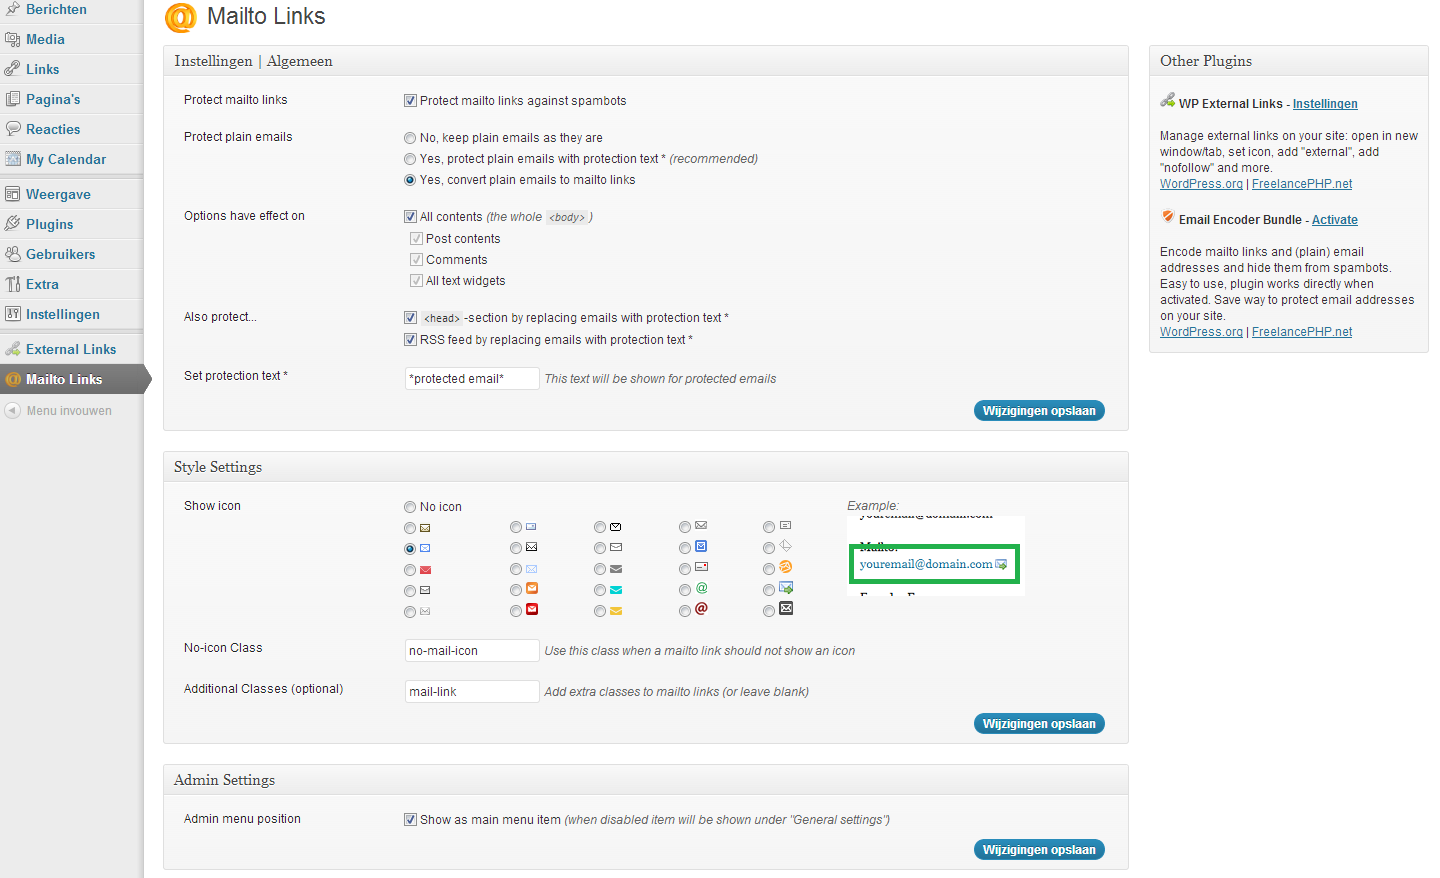
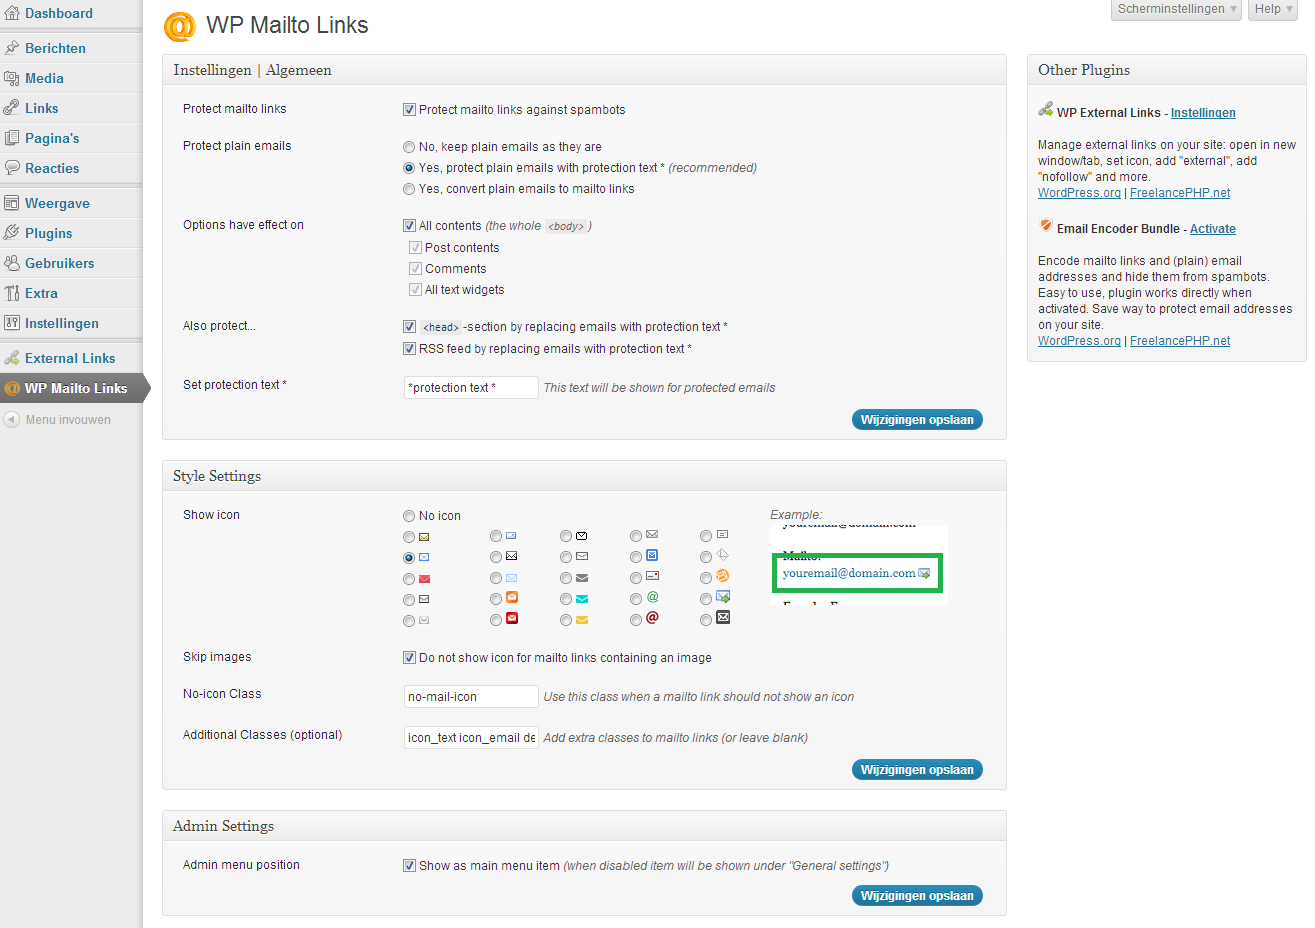
version 1.2.0
git-svn-id: https://plugins.svn.wordpress.org/wp-mailto-links/trunk@711937 b8457f37-d9ea-0310-8a92-e5e31aec5664

diff --git a/includes/class-admin-wp-mailto-links.php b/includes/class-admin-wp-mailto-links.php
@@ -12,7 +12,7 @@ class Admin_WP_Mailto_Links {
 	 * Current version
 	 * @var string
 	 */
-	protected $version = '1.1.0';
+	protected $version = '1.2.0';
 
 	/**
 	 * Used as prefix for options entry and could be used as text domain (for translations)
@@ -41,6 +41,7 @@ class Admin_WP_Mailto_Links {
 		'filter_head' => 1,
 		'protection_text' => '*protected email*',
 		'icon' => 0,
+		'image_no_icon' => 0,
 		'no_icon_class' => 'no-mail-icon',
 		'class_name' => 'mail-link',
 		'widget_logic_filter' => 0,
@@ -263,9 +264,6 @@ class Admin_WP_Mailto_Links {
 
 		if ($key === 'general_settings') {
 ?>
-			<?php if (is_plugin_active('email-encoder-bundle/email-encoder-bundle.php')): ?>
-				<p class="description"><?php _e('Warning: "Email Encoder Bundle"-plugin is also activated, which could cause conflicts.', $this->domain) ?></p>
-			<?php endif; ?>
 			<fieldset class="options">
 				<table class="form-table">
 				<tr>
@@ -348,6 +346,12 @@ class Admin_WP_Mailto_Links {
 					</td>
 				</tr>
 				<tr>
+					<th><?php _e('Skip images', $this->domain) ?></th>
+					<td><label><input type="checkbox" name="<?php echo $this->options_name ?>[image_no_icon]" value="1" <?php checked('1', (int) $options['image_no_icon']); ?> />
+						<span><?php _e('Do not show icon for mailto links containing an image', $this->domain) ?></span></label>
+					</td>
+				</tr>
+				<tr>
 					<th><?php _e('No-icon Class', $this->domain) ?></th>
 					<td><label><input type="text" id="<?php echo $this->options_name ?>[no_icon_class]" name="<?php echo $this->options_name ?>[no_icon_class]" value="<?php echo $options['no_icon_class']; ?>" />
 						<span class="description"><?php _e('Use this class when a mailto link should not show an icon', $this->domain) ?></span></label>
@@ -384,7 +388,7 @@ class Admin_WP_Mailto_Links {
 ?>
 			<h4><img src="<?php echo plugins_url('images/icon-wp-external-links.png', WP_MAILTO_LINKS_FILE) ?>" width="16" height="16" /> <?php _e('WP External Links', $this->domain) ?> -
 				<?php if (is_plugin_active('wp-external-links/wp-external-links.php')): ?>
-					<a href="<?php echo get_bloginfo('url') ?>/wp-admin/options-general.php?page=wp-external-links/wp-external-links.php"><?php _e('Settings') ?></a>
+					<a href="<?php echo get_bloginfo('url') ?>/wp-admin/admin.php?page=wp_external_links"><?php _e('Settings') ?></a>
 				<?php elseif( file_exists( WP_PLUGIN_DIR . '/wp-external-links/wp-external-links.php')): ?>
 					<a href="<?php echo get_bloginfo('url') ?>/wp-admin/plugins.php?plugin_status=inactive"><?php _e('Activate', $this->domain) ?></a>
 				<?php else: ?>
@@ -397,7 +401,7 @@ class Admin_WP_Mailto_Links {
 
 			<h4><img src="<?php echo plugins_url('images/icon-email-encoder-bundle.png', WP_MAILTO_LINKS_FILE) ?>" width="16" height="16" /> <?php _e('Email Encoder Bundle', $this->domain) ?> -
 				<?php if (is_plugin_active('email-encoder-bundle/email-encoder-bundle.php')): ?>
-					<a href="<?php echo get_bloginfo('url') ?>/wp-admin/options-general.php?page=email-encoder-bundle/email-encoder-bundle.php"><?php _e('Settings') ?></a>
+					<a href="<?php echo get_bloginfo('url') ?>/wp-admin/admin.php?page=email-encoder-bundle/email-encoder-bundle.php"><?php _e('Settings') ?></a>
 				<?php elseif( file_exists( WP_PLUGIN_DIR . '/email-encoder-bundle/email-encoder-bundle.php')): ?>
 					<a href="<?php echo get_bloginfo('url') ?>/wp-admin/plugins.php?plugin_status=inactive"><?php _e('Activate', $this->domain) ?></a>
 				<?php else: ?>
@@ -465,13 +469,16 @@ class Admin_WP_Mailto_Links {
 			$icon_url = plugins_url('images/icon-wp-mailto-links.png', WP_MAILTO_LINKS_FILE);
 			$content = <<<GENERAL
 <p><strong><img src="{$icon_url}" width="16" height="16" /> {$plugin_title} - version {$this->version}</strong></p>
-<p>Protect emailaddresses and manage mailto links on your site, set mail icon and styling.</p>
-<p><strong>Please <a href="http://wordpress.org/extend/plugins/wp-mailto-links/" target="_blank">rate this plugin</a> and vote if the plugin works.</strong></p>
+<p>Protect your email addresses (automatically) and manage mailto links on your site, set mail icon, styling and more.</p>
+<p><strong>Please <a href="http://wordpress.org/extend/plugins/wp-mailto-links/" target="_blank">rate this plugin</a>.</strong></p>
 GENERAL;
 		} elseif ($key === 'shortcodes') {
 			$content = <<<SHORTCODES
-<p>Encode an email address:
-<br/><code>[wpml_mailto href="info@myemail.com"]My Email[/wpml_mailto]</code>
+<p>Create a protected mailto link in your posts:
+<br/><code>[wpml_mailto email="info@myemail.com"]My Email[/wpml_mailto]</code>
+</p>
+<p>It's also possible to add attributes to the mailto link, like a target:
+<br/><code>[wpml_mailto email="info@myemail.com" target="_blank"]My Email[/wpml_mailto]</code>
 </p>
 SHORTCODES;
 		} elseif ($key === 'templatefunctions') {
@@ -506,8 +513,12 @@ add_filter('wpml_mailto', 'special_mailto', 10, 4);
 FILTERHOOKS;
 		} elseif ($key === 'sidebar') {
 			$content = <<<SIDEBAR
-<p>See <a href="http://wordpress.org/extend/plugins/wp-mailto-links/faq/" target="_blank">FAQ</a> at WordPress.org</p>
-<p>Send your <a href="http://www.freelancephp.net/contact/" target="_blank">question</a></p>
+<h4>Support</h4>
+<ul>
+	<li><a href="http://wordpress.org/extend/plugins/wp-mailto-links/faq/" target="_blank">FAQ</a></li>
+	<li><a href="http://wordpress.org/support/plugin/wp-mailto-links" target="_blank">Report a problem</a></li>
+	<li><a href="http://www.freelancephp.net/contact/" target="_blank">Send a question</a></li>
+</ul>
 SIDEBAR;
 		}
 

diff --git a/includes/class-wp-mailto-links.php b/includes/class-wp-mailto-links.php
@@ -250,6 +250,12 @@ class WP_Mailto_Links extends Admin_WP_Mailto_Links {
 			$content = $this->get_protected_display($content);
 		}
 
+		// set "email" to "href"
+		if (isset($attrs['email'])) {
+			$attrs['href'] = 'mailto:'. $attrs['email'];
+			unset($attrs['email']);
+		}
+
 		return $this->protected_mailto($content, $attrs);
 	}
 
@@ -287,8 +293,9 @@ class WP_Mailto_Links extends Admin_WP_Mailto_Links {
 		$email = null;
 		$class_ori = (empty($attrs['class'])) ? '' : $attrs['class'];
 
-		// set icon class, unless no-icon class isset or another icon class ('mail-icon-...') is found
-		if ($this->options['icon'] > 0 && (empty($this->options['no_icon_class']) || strpos($class_ori, $this->options['no_icon_class']) === FALSE) && strpos($class_ori, 'mail-icon-') === FALSE) {
+		// set icon class, unless no-icon class isset or another icon class ('mail-icon-...') is found and display does not contain image
+		if ($this->options['icon'] > 0 && (empty($this->options['no_icon_class']) || strpos($class_ori, $this->options['no_icon_class']) === FALSE)
+				&& strpos($class_ori, 'mail-icon-') === FALSE && !($this->options['image_no_icon'] == 1 && (bool) preg_match($this->regexps['<img>'], $display))) {
 			$icon_class = 'mail-icon-'. $this->options['icon'];
 
 			$attrs['class'] = (empty($attrs['class']))

diff --git a/wp-mailto-links.php b/wp-mailto-links.php
@@ -4,7 +4,7 @@ Plugin Name: WP Mailto Links
 Plugin URI: http://www.freelancephp.net/wp-mailto-links-plugin
 Description: Manage mailto links on your site and protect emails from spambots, set mail icon and more.
 Author: Victor Villaverde Laan
-Version: 1.1.0
+Version: 1.2.0
 Author URI: http://www.freelancephp.net
 License: Dual licensed under the MIT and GPL licenses
 */
